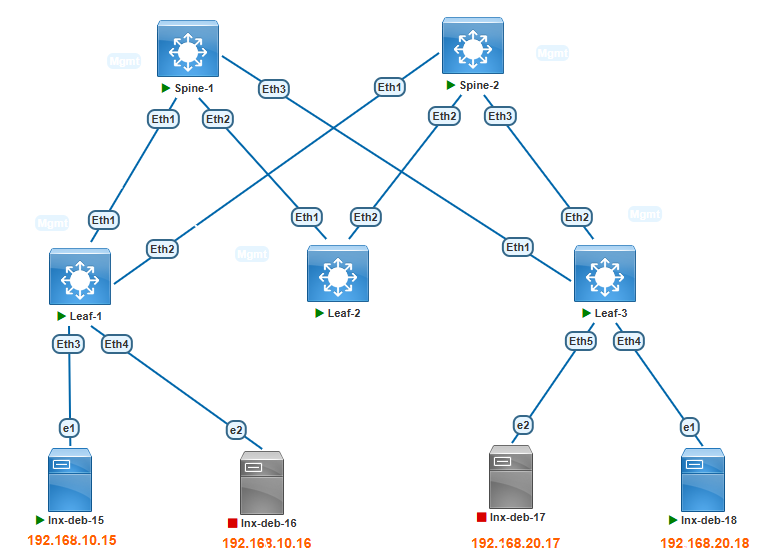
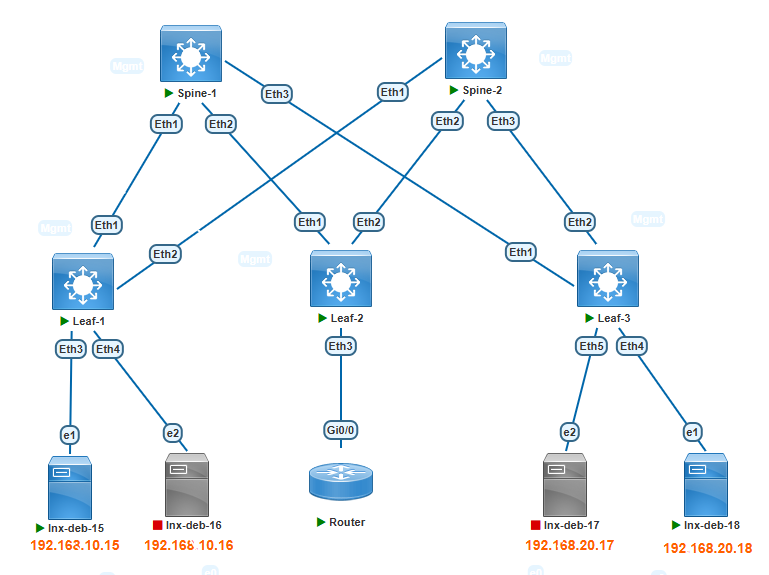
HW8_v2

diff --git a/HW8/README.md b/HW8/README.md
@@ -8,8 +8,8 @@
 
 1. Сервер lnx-deb-15 подключается в Leaf1 Eth3 (Vlan 10, vrf TENENT-A, Anycast-Gateway). Сервер lnx-deb-18 подключается в Leaf3 Eth4 (Vlan 20, vrf TENENT-B, Anycast-Gateway).
 2. На leaf1 - удалить всю ранее созданную конфигурацию связанной с Vlan20 (SVI, BGP etc). На leaf3 - удалить всю ранее созданную конфигурацию связанной с Vlan10 (SVI, BGP etc) и TENANT-A.
-3. В качестве BGW устройства, определить Leaf2, который будет анонсировать Connected сети в фабрику, сделать на Leaf2 необходимые настройки.
-4. Выполнить необходимые настройки на Leaf узлах для организации маршрутизации между сетями TENENT-A и TENENT-B.
+3. Добавить в топологию маршрутизатор подключенный к Leaf2 Ethernet3, на который будет ссылаться статический маршрут по умолчанию в разных VRF (на Leaf2), сделать на Leaf2 необходимые настройки, в том числе для распространения маршрута по умолчанию в фабрике.
+4. Выполнить необходимые настройки на Leaf узлах для организации маршрутизации между сетями TENENT-A и TENENT-B, а так же выполнить необходимые настройки на Router.
 5. Опционально. Выполнить проверку связности между сетями TENENT-A и TENENT-B узлов Leaf1/3
 
 ![](HW1_CLOSE_TOPO.png)
@@ -26,6 +26,8 @@
         | 10.10.12.0/30    | 10.10.0.0/16   | P2P Spine2-Leaf2   | Eth2-Eth2          | 10.10.12.1/10.10.12.2       |
         | 10.10.3.0/30     | 10.10.0.0/16   | P2P Spine1-Leaf3   | Eth3-Eth1          | 10.10.3.1/10.10.3.2         |
         | 10.10.13.0/30    | 10.10.0.0/16   | P2P Spine2-Leaf3   | Eth3-Eth2          | 10.10.13.1/10.10.13.2       |
+        | 10.10.10.0/30    | 10.10.10.0/30  | P2P Router-Leaf2   | Gi0/0.1-Eth3.1     | 10.10.10.2/10.10.10.1       |
+        | 10.10.20.0/30    | 10.10.20.0/30  | P2P Router-Leaf2   | Gi0/0.2-Eth3.2     | 10.10.20.2/10.10.20.1       |
 
       Третий октет подразумевает номер Leaf коммутатора. Если видим в третьем октете единицу, то это подключение Leaf1 к Spine1.
       Если видим в третьем октете 11, то это подключение Leaf1 к Spine2 и т.д.
@@ -76,21 +78,55 @@ Leaf3:
 Leaf-3(config)# no int vlan 10
 Leaf-3(config)# interface Vxlan1
 Leaf-3(config-if-Vx1)# no vxlan vlan 10 vni 10010
+Leaf-3(config-if-Vx1)# no vxlan vrf TENANT-B vni 50001
 Leaf-3(config)# router bgp 65003
 Leaf-3(config-router-bgp)# no vlan 10
 Leaf-3(config-router-bgp)# no vrf TENANT-A
 ```
 
-3. В качестве BGW устройства, определить Leaf2, который будет анонсировать Connected сети в фабрику, сделать на Leaf2 необходимые настройки.
+3. Добавить в топологию маршрутизатор подключенный к Leaf2 Ethernet3, на который будет ссылаться статический маршрут по умолчанию в разных VRF (на Leaf2), сделать на Leaf2 необходимые настройки, в том числе для распространения маршрута по умолчанию в фабрике.
 
 Leaf2:
 ```
-Leaf-2(config)# router bgp 65002
-Leaf-2(config-router-bgp)# vrf TENANT-A
-Leaf-2(config-router-bgp-vrf-TENANT-A)# redistribute connected
+vrf instance TENANT-B
+ip routing vrf TENANT-B
+
+interface Ethernet3
+   no switchport
+!
+interface Ethernet3.1
+   encapsulation dot1q vlan 100
+   vrf TENANT-A
+   ip address 10.10.10.1/30
+!
+interface Ethernet3.2
+   encapsulation dot1q vlan 200
+   vrf TENANT-B
+   ip address 10.10.20.1/30
+
+interface Vlan10
+   shutdown
+interface Vlan20
+   shutdown
+
+ip route vrf TENANT-A 0.0.0.0/0 10.10.10.2
+ip route vrf TENANT-B 0.0.0.0/0 10.10.20.2
+
+router bgp 65002
+vrf TENANT-A
+redistribute static
+
+vrf TENANT-B
+rd 1.1.1.2:50002
+route-target import evpn 65100:50002
+route-target export evpn 65100:50002
+redistribute static
+
+interface Vxlan1
+vxlan vrf TENANT-B vni 50002
 ```
 
-4. Выполнить необходимые настройки на Leaf узлах для организации маршрутизации между сетями TENENT-A и TENENT-B.
+4. Выполнить необходимые настройки на Leaf узлах для организации маршрутизации между сетями TENENT-A и TENENT-B, а так же выполнить необходимые настройки на Router.
 
 Leaf3:
 ```
@@ -103,9 +139,25 @@ Leaf-3(config-if-Vl20)# ip address virtual 192.168.20.1/24
 
 Leaf-3(config)# router bgp 65003
 Leaf-3(config-router-bgp)# vrf TENANT-B
-Leaf-3(config-router-bgp-vrf-TENANT-B)# rd 1.1.1.3:50001
-Leaf-3(config-router-bgp-vrf-TENANT-B)# route-target import evpn 65100:50001
-Leaf-3(config-router-bgp-vrf-TENANT-B)# route-target export evpn 65100:50001
+Leaf-3(config-router-bgp-vrf-TENANT-B)# rd 1.1.1.3:50002
+Leaf-3(config-router-bgp-vrf-TENANT-B)# route-target import evpn 65100:50002
+Leaf-3(config-router-bgp-vrf-TENANT-B)# route-target export evpn 65100:50002
+
+interface Vxlan1
+vxlan vrf TENANT-B vni 50002
+```
+Router:
+```
+interface GigabitEthernet0/0.1
+ encapsulation dot1Q 100
+ ip address 10.10.10.2 255.255.255.252
+!
+interface GigabitEthernet0/0.2
+ encapsulation dot1Q 200
+ ip address 10.10.20.2 255.255.255.252
+!
+ip route 192.168.10.0 255.255.255.0 10.10.10.1
+ip route 192.168.20.0 255.255.255.0 10.10.20.1
 ```
 
 5. Проверка доступности между хостами. Так как Ping это двухсторонняя проверка, то достаточно провести тест с одного хоста и пропинговать удаленный:
@@ -122,13 +174,22 @@ root@lnx-deb-15:~# ip addr show dev ens4
 
 root@lnx-deb-15:~# ping 192.168.20.18 -c 3
 PING 192.168.20.18 (192.168.20.18) 56(84) bytes of data.
-64 bytes from 192.168.20.18: icmp_seq=1 ttl=62 time=20.7 ms
-64 bytes from 192.168.20.18: icmp_seq=2 ttl=62 time=18.2 ms
-64 bytes from 192.168.20.18: icmp_seq=3 ttl=62 time=17.5 ms
+64 bytes from 192.168.20.18: icmp_seq=1 ttl=59 time=23.6 ms
+64 bytes from 192.168.20.18: icmp_seq=2 ttl=59 time=22.4 ms
+64 bytes from 192.168.20.18: icmp_seq=3 ttl=59 time=22.0 ms
 
 --- 192.168.20.18 ping statistics ---
 3 packets transmitted, 3 received, 0% packet loss, time 2003ms
-rtt min/avg/max/mdev = 17.492/18.800/20.662/1.352 ms
+rtt min/avg/max/mdev = 22.006/22.686/23.626/0.686 ms
+
+root@lnx-deb-15:~# traceroute 192.168.20.18
+traceroute to 192.168.20.18 (192.168.20.18), 30 hops max, 60 byte packets
+ 1  192.168.10.1 (192.168.10.1)  8.031 ms  8.841 ms  12.273 ms
+ 2  10.10.10.1 (10.10.10.1)  28.154 ms  28.810 ms  30.624 ms
+ 3  10.10.10.2 (10.10.10.2)  35.682 ms  36.342 ms  40.565 ms
+ 4  10.10.20.1 (10.10.20.1)  46.386 ms  49.067 ms  51.345 ms
+ 5  192.168.20.1 (192.168.20.1)  62.685 ms  63.519 ms  65.700 ms
+ 6  *^C
 ```
 
 Проверка маршрутов EVPN type-5 и таблицы маршрутизации VRF TENANT-A/TENANT-B:
@@ -137,52 +198,76 @@ Leaf-1:
 ```
 Leaf-1#sh ip route vrf TENANT-A
 
-Gateway of last resort is not set
+Gateway of last resort:
+ B E      0.0.0.0/0 [200/0] via VTEP 1.1.1.2 VNI 50001 router-mac 50:cb:43:fc:98:ec local-interface Vxlan1
 
  C        192.168.10.0/24 is directly connected, Vlan10
- B E      192.168.20.0/24 [200/0] via VTEP 1.1.1.2 VNI 50001 router-mac 50:cb:43:fc:98:ec local-interface Vxlan1
 
-Leaf-1#sh bgp evpn route-type ip-prefix 192.168.20.0/24
+Leaf-1#show bgp evpn route-type ip-prefix 0.0.0.0/0
 BGP routing table information for VRF default
 Router identifier 1.1.1.1, local AS number 65001
-BGP routing table entry for ip-prefix 192.168.20.0/24, Route Distinguisher: 1.1.1.2:50001
+BGP routing table entry for ip-prefix 0.0.0.0/0, Route Distinguisher: 1.1.1.2:50001
  Paths: 2 available
   65100 65002
     1.1.1.2 from 100.100.100.100 (10.10.1.1)
-      Origin IGP, metric -, localpref 100, weight 0, tag 0, valid, external, ECMP head, ECMP, best, ECMP contributor
+      Origin INCOMPLETE, metric -, localpref 100, weight 0, tag 0, valid, external, ECMP head, ECMP, best, ECMP contributor
       Extended Community: Route-Target-AS:65100:50001 TunnelEncap:tunnelTypeVxlan EvpnRouterMac:50:cb:43:fc:98:ec
       VNI: 50001
   65100 65002
     1.1.1.2 from 200.200.200.200 (10.10.11.1)
-      Origin IGP, metric -, localpref 100, weight 0, tag 0, valid, external, ECMP, ECMP contributor
+      Origin INCOMPLETE, metric -, localpref 100, weight 0, tag 0, valid, external, ECMP, ECMP contributor
       Extended Community: Route-Target-AS:65100:50001 TunnelEncap:tunnelTypeVxlan EvpnRouterMac:50:cb:43:fc:98:ec
       VNI: 50001
+BGP routing table entry for ip-prefix 0.0.0.0/0, Route Distinguisher: 1.1.1.2:50002
+ Paths: 2 available
+  65100 65002
+    1.1.1.2 from 100.100.100.100 (10.10.1.1)
+      Origin INCOMPLETE, metric -, localpref 100, weight 0, tag 0, valid, external, ECMP head, ECMP, best, ECMP contributor
+      Extended Community: Route-Target-AS:65100:50002 TunnelEncap:tunnelTypeVxlan EvpnRouterMac:50:cb:43:fc:98:ec
+      VNI: 50002
+  65100 65002
+    1.1.1.2 from 200.200.200.200 (10.10.11.1)
+      Origin INCOMPLETE, metric -, localpref 100, weight 0, tag 0, valid, external, ECMP, ECMP contributor
+      Extended Community: Route-Target-AS:65100:50002 TunnelEncap:tunnelTypeVxlan EvpnRouterMac:50:cb:43:fc:98:ec
+      VNI: 50002
 ```
 
 leaf3:
 ```
 Leaf-3#sh ip route vrf TENANT-B
 
-Gateway of last resort is not set
+Gateway of last resort:
+ B E      0.0.0.0/0 [200/0] via VTEP 1.1.1.2 VNI 50002 router-mac 50:cb:43:fc:98:ec local-interface Vxlan1
 
- B E      192.168.10.0/24 [200/0] via VTEP 1.1.1.2 VNI 50001 router-mac 50:cb:43:fc:98:ec local-interface Vxlan1
  C        192.168.20.0/24 is directly connected, Vlan20
 
-Leaf-3#sh bgp evpn route-type ip-prefix 192.168.10.0/24
+Leaf-3#show bgp evpn route-type ip-prefix 0.0.0.0/0
 BGP routing table information for VRF default
 Router identifier 1.1.1.3, local AS number 65003
-BGP routing table entry for ip-prefix 192.168.10.0/24, Route Distinguisher: 1.1.1.2:50001
+BGP routing table entry for ip-prefix 0.0.0.0/0, Route Distinguisher: 1.1.1.2:50001
  Paths: 2 available
   65100 65002
-    1.1.1.2 from 200.200.200.200 (10.10.11.1)
-      Origin IGP, metric -, localpref 100, weight 0, tag 0, valid, external, ECMP head, ECMP, best, ECMP contributor
+    1.1.1.2 from 100.100.100.100 (10.10.1.1)
+      Origin INCOMPLETE, metric -, localpref 100, weight 0, tag 0, valid, external, ECMP head, ECMP, best, ECMP contributor
       Extended Community: Route-Target-AS:65100:50001 TunnelEncap:tunnelTypeVxlan EvpnRouterMac:50:cb:43:fc:98:ec
       VNI: 50001
   65100 65002
-    1.1.1.2 from 100.100.100.100 (10.10.1.1)
-      Origin IGP, metric -, localpref 100, weight 0, tag 0, valid, external, ECMP, ECMP contributor
+    1.1.1.2 from 200.200.200.200 (10.10.11.1)
+      Origin INCOMPLETE, metric -, localpref 100, weight 0, tag 0, valid, external, ECMP, ECMP contributor
       Extended Community: Route-Target-AS:65100:50001 TunnelEncap:tunnelTypeVxlan EvpnRouterMac:50:cb:43:fc:98:ec
       VNI: 50001
+BGP routing table entry for ip-prefix 0.0.0.0/0, Route Distinguisher: 1.1.1.2:50002
+ Paths: 2 available
+  65100 65002
+    1.1.1.2 from 100.100.100.100 (10.10.1.1)
+      Origin INCOMPLETE, metric -, localpref 100, weight 0, tag 0, valid, external, ECMP head, ECMP, best, ECMP contributor
+      Extended Community: Route-Target-AS:65100:50002 TunnelEncap:tunnelTypeVxlan EvpnRouterMac:50:cb:43:fc:98:ec
+      VNI: 50002
+  65100 65002
+    1.1.1.2 from 200.200.200.200 (10.10.11.1)
+      Origin INCOMPLETE, metric -, localpref 100, weight 0, tag 0, valid, external, ECMP, ECMP contributor
+      Extended Community: Route-Target-AS:65100:50002 TunnelEncap:tunnelTypeVxlan EvpnRouterMac:50:cb:43:fc:98:ec
+      VNI: 50002
 ```
 
 [Конфигурационные файлы](configs/)
